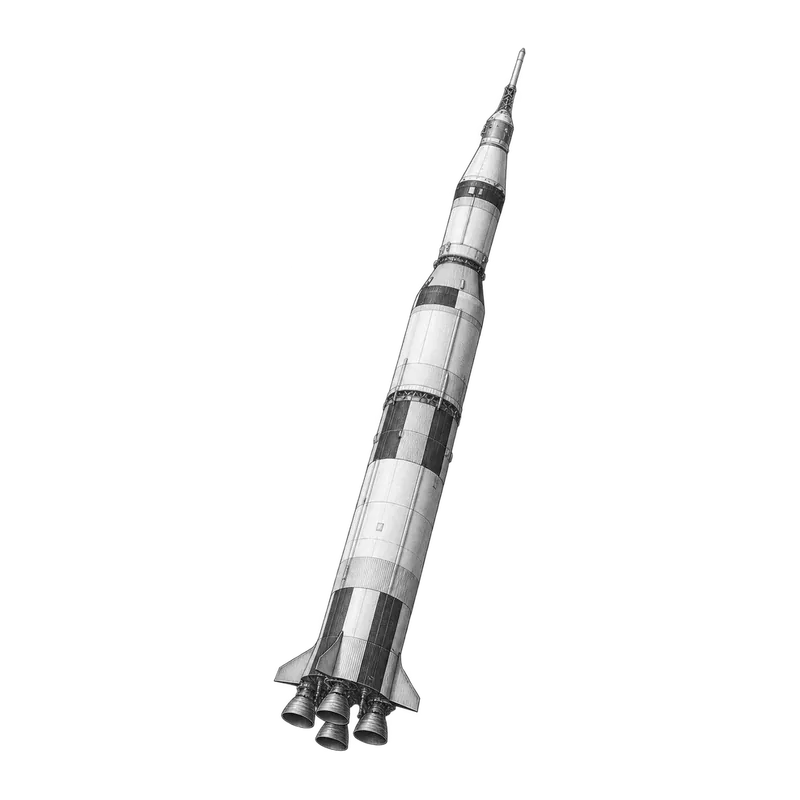
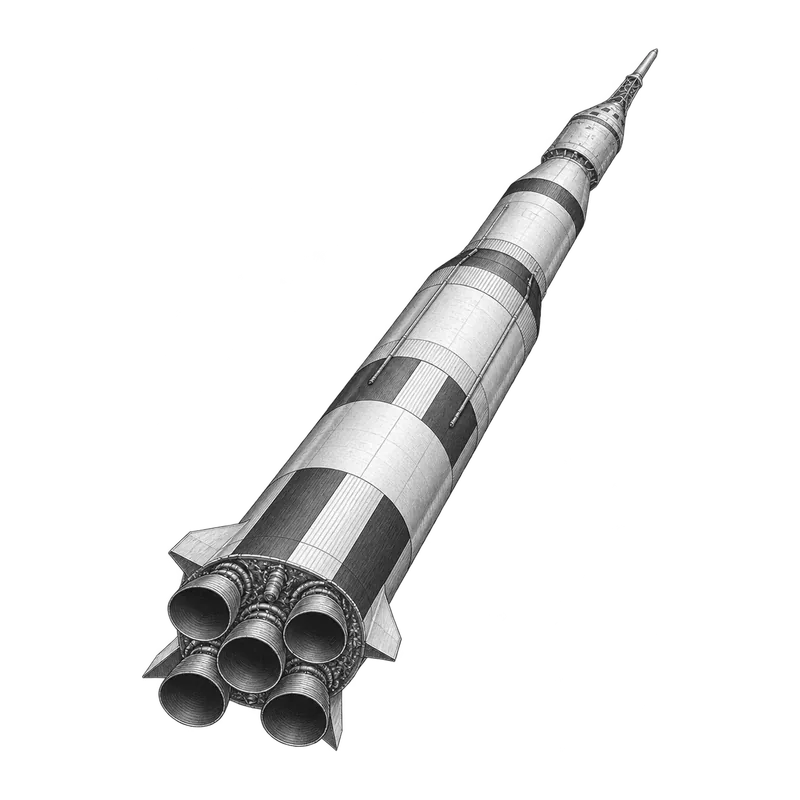
images: Saturn V cover redrawn with five F-1 nozzles; bones protected-organs figure stays withdrawn (four attempts failed the rib count)

Changed region(s): [[0.1875, 0.0625, 0.8438, 0.9375]]

diff --git a/src/content/topics/bones-and-joints/FIGURES.md b/src/content/topics/bones-and-joints/FIGURES.md
@@ -1,83 +1,93 @@
-# 插图检查 / Figure record — rework 2026-10-27
+# 插图检查 / Figure record — 2026-10-29
 
-Three independent graphite illustrations, CC BY-NC-SA 4.0. No Z-Anatomy render
-was supplied to image generation or incorporated into these images. The cover
-and living-bone drawing are unchanged. The protected-organs drawing is replaced.
+## Publication state
 
-| Figure | Source PNG SHA-256 | Published output |
+The cover and living-bone figure are unchanged. **Protected organs remains
+withdrawn.** Four built-in image_gen calls were used this session; none passed
+the combined count and floating-rib attachment check. No replacement is
+published; the two chapter uses and dependent e2e check remain withdrawn.
+
+Independent Atlas graphite illustrations, CC BY-NC-SA 4.0. No Z-Anatomy render
+or mesh was supplied to image generation. Processing only crops, pads,
+desaturates and encodes; it cannot repair anatomy.
+
+| Published figure | Source PNG SHA-256 | Published output |
 |---|---|---|
[5 lines of base64/hex data omitted]
+| Protected organs | No accepted replacement | Absent |
 
-Replacement source: `art/planned/bones-and-joints/bones-and-joints-protected-organs.png`
-(1312×1199, alpha; local preparation directory). Published WebP SHA-256:
[1 lines of base64/hex data omitted]
+## Earlier acceptance withdrawn
 
-## Correction to the previous record
+Original PNG `a7ab7c9e…` / 118,178 B WebP was incorrectly recorded as
+12 pairs; browser acceptance counted 14. Replacement PNG `71abb107…` /
+WebP `b7f6c69c…` counted 12 but drew ribs 11–12 loose beside the spine.
+Commit `6aaf098` withdrew it. The earlier
+[rib-count.svg](../../../../scripts/geo/bones-and-joints/rib-count.svg)
+belongs to that withdrawn image; its 24 dots are historical, not evidence of
+an accepted current image. Source-mesh counts do not establish raster anatomy.
 
-The previous PNG (`a7ab7c9e…`) / 118,178 B WebP was incorrectly recorded as
-12 ribs per side. Claude's browser acceptance counted 14. That old visual count
-is withdrawn. A correct source-mesh count does **not** establish an illustration's
-rib count. The replacement was counted independently on the generated image
-and again on the processed WebP.
+## Four-attempt review (this session)
 
-## New generation and count
+All four PNGs were visually inspected. Count each separate anterior shaft /
+cartilage junction from the top, then trace each floating rib from its
+vertebral joint to its free anterior tip. Posterior returns, shared cartilage,
+vertebral processes and generated numbers are not additional ribs or evidence
+by themselves. Check both sides; hidden endpoints do not establish free tips.
 
-Built-in `image_gen`, three calls of the four permitted; transparent background
-on all calls. Attempt 1 was rejected because the lower costal-margin arcs did
-not provide an acceptable twelve-rib cage. Attempt 2 generated a numbered plate,
-with ten long arcs and two short floating ribs on each side. The numbers were
-checked against the actual continuous arcs and tips rather than accepted as
-evidence by themselves. Attempt 3 removed only those numbers and short leaders.
-Its anatomy was recounted after that edit; no fourth attempt was needed.
+| Attempt | Rejection |
+|---|---|
+| 1 | Extra lower outer arcs plus two short inner branches; not twelve pairs. |
+| 2 | Twelve outer shafts plus an extra short inner pair. Printed right-side numbers are inconsistent. |
+| 3 | Twelve outer shafts can be counted, but a lower arch meets the costal margin and the lowest free tips lack unambiguous posterior continuity. |
+| 4 | Ten outer arcs per side and one clearly attached short pair with free tips. A higher posterior branch disappears beneath the costal margin; both floating pairs cannot be traced to free anterior tips. |
 
-The numbered intermediate is saved locally as
-`art/planned/bones-and-joints/bones-and-joints-protected-organs-counted.png`.
-The **final** WebP is marked separately in
-[rib-count.svg](../../../../scripts/geo/bones-and-joints/rib-count.svg).
-Each of its 24 dots is on an individually traced rib, with numbers 1–12 per
-side. The corresponding raster review copy is in the ignored anatomy cache:
-`scripts/anatomy/cache/bones-joints/previews/rework-rib-count.png`.
+Attempt 4 (1536×1024): clearly free short tips near (580,850) / (960,850).
+Higher branches originate at the next vertebra up but disappear around
+(610,760) / (925,760) beneath the foreground margin. An independent
+second-agent review also rejected attempts 3 and 4. Heart/lungs inside,
+sternum anterior and spine posterior read correctly; these do not waive the
+floating-rib requirement.
 
-| Traced level, top to bottom | Viewer-left | Viewer-right | Anterior endpoint checked |
-|---|---|---|---|
-| 1–7, traced separately | 7 | 7 | Seven individual cartilage junctions towards the sternum |
-| 8, 9, 10, traced separately | 3 | 3 | Three indirect contributions to the open costal margin |
-| 11 and 12, traced separately | 2 | 2 | Two short free tips in each lower opening |
-| Total | **12** | **12** | **24 individual ribs / 12 pairs** |
+## Local review artifacts and processing
 
-Method: start at the uppermost rib, trace its continuous shaft to its anterior
-cartilage seam, then move to the next separate shaft. After the seven direct
-connections, trace the three lower arcs into the margin. Count the two remaining
-short ribs by their separate free anterior tips. Posterior returns, the shared
-cartilage margin and vertebral processes are not additional ribs. Repeat on the
-other side and on the processed image. The final overlay was visually inspected
-with the actual WebP beneath the markers. Heart and lungs are within the cage,
-sternum anterior and spine posterior; the sternum ends above the open arch.
+Files below and `prompts.json` are staged in this worktree's gitignored
+`art/planned/bones-and-joints/`. Main checkout art at
+`/Users/gavin/work/atlas/art/planned/bones-and-joints/` is outside sandbox
+writable roots and was read only.
 
-This is an educational count and composition check, not named clinical approval
-of cartilage thickness, posterior joints, vertebral segmentation or lung fissures.
+| Local rejected file | SHA-256 |
+|---|---|
[5 lines of base64/hex data omitted]
 
-Processing (no anatomy edits by script):
-
-```sh
-pnpm tsx scripts/illustrate.ts figure art/planned/bones-and-joints/bones-and-joints-protected-organs.png bones-and-joints-protected-organs
-```
-
-Result: 1200×900, alpha, neutral graphite, q76, 122,018 B (within the figure
-budget). The final PNG and final WebP were both visually inspected.
+Attempt 4 was processed with `scripts/illustrate.ts figure` using the requested
+`bones-and-joints-protected-organs` stem, then its output moved out of
+`public/` into the local review directory. The 1200×900 alpha WebP was
+visually inspected and remains rejected. At 129,548 B / minimum q58 it also
+exceeds the 120 KiB target. No engine/pipeline changes were made for an
+unaccepted image. The staged source uses an attempt filename deliberately.
 
 ## Prompts (verbatim)
 
+Built-in `image_gen__imagegen`, `transparent_background=true` on all calls.
+Attempts 3 and 4 use the preceding candidate as an edit reference.
+
 ### Attempt 1 — rejected
 
-Use case: scientific-educational. Redraw an anatomical graphite plate of the thorax, frontal view, transparent background. Fine neutral grey pencil engraving and stippled shading, matching a nineteenth-century technical plate. One sternum in front, thoracic vertebral column behind, pale lungs and heart safely inside the cage. CRITICAL EXACT COUNT: TWELVE ribs on EACH side, twelve pairs total. Build only these twelve numbered levels mentally: 1,2,3,4,5,6,7 are true ribs each joining the sternum by its own cartilage; 8,9,10 join a shared open costal arch indirectly; 11 and 12 are TWO short floating ribs with distinct free anterior tips on EACH side. Seven + three + two = twelve per side. Broad clear spaces between every rib make all twelve individually traceable. No extra arcs, no extra free tips, no detached bone shards. Sternum terminates near rib seven above an open inverted V costal arch. Anatomically proportional cage, not an elongated cage of fourteen ribs. Organs lighter than foreground bone. No clavicles, shoulders, arms, pelvis, no labels, numerals, text, arrows, frame, shadows, or paper background.
+Use case: scientific-educational. Asset: Atlas chapter figure, isolated human thorax in fine neutral-grey graphite pencil engraving, delicate crosshatching and stippling, crisp contours, nineteenth-century scientific plate. Fully transparent background. Landscape 4:3 canvas. Draw heart and both lungs INSIDE one anatomically proportional rib cage, sternum in the FRONT, thoracic vertebrae BEHIND the organs. Near-frontal view with slight three-quarter rotation so posterior rib attachments can be read; organs very pale translucent graphite, bones darker. CRITICAL: exactly TWELVE PAIRS of ribs, 12 individual ribs per side, 24 total. Seven true ribs 1–7 each connect by their own cartilage to the sternum; three false ribs 8–10 merge into the costal margin; two shorter floating ribs 11–12 on EACH SIDE, whose POSTERIOR ENDS ARE PHYSICALLY JOINED TO THE ELEVENTH AND TWELFTH THORACIC VERTEBRAE. Floating means only their ANTERIOR tips are free. Draw each lower floating rib as one unbroken curved bony shaft emerging directly from the side of its corresponding vertebra and sweeping laterally then anteriorly to a free tip. No transparent gap at any posterior joint; no detached slivers anywhere. Expose lower thoracic spine below the pale lungs to make all FOUR posterior joints of ribs 11 and 12 unmistakable. Give each of the 12 ribs generous separation so shafts can be traced and counted, particularly the two short lower ribs attached to each side of the spine. Only ten long outer arcs per side; two shorter attached lower ribs per side. Sternum ends above open costal arch. No clavicles, scapulae, arms, pelvis, lumbar spine, extra bones or inset diagrams. No text, numerals, labels, arrows, watermark, frame, ground shadow, paper texture or background. Entire thorax fits with transparent margins. Original illustration, no existing anatomy mesh as input.
 
-### Attempt 2 — numbered count plate
+### Attempt 2 — rejected
 
-Use case: scientific-educational. NEW anatomy textbook graphite engraving of a rib cage enclosing pale heart and lungs, transparent background, frontal view, NO shoulders/clavicles/arms/pelvis. Make exactly TWELVE pairs of ribs, 24 ribs total, not fourteen pairs. The previously generated cage had extra lower ribs: avoid that. Clearly enumerate every actual rib with a tiny pencilled number 1 through 12 beside the lateral shaft on BOTH sides, one number per rib, exactly twelve numbers on each side. Top down: seven true ribs (1–7) join the front sternum individually, three false ribs (8–10) converge into one continuous open inverted-V costal margin, TWO floating ribs (11–12) are short separate branches from the posterior thoracic spine with free tips, shown below rib10 within the lower opening. There must be ONLY TEN long outer arcs on each side, with the TWO shorter floating ribs inside the lower opening. Do not put extra arcs below the tenth outer rib. Generous spacing, clearly separate ribs. Sternum is foreground, spinal column is behind, organs inside. Fine neutral-grey graphite linework, hatching/stipple, no colour, no background, no decorative elements. Twelve not fourteen.
+Use case scientific-educational. Draw a NEW anatomical graphite plate, fully transparent background, centered isolated adult thorax with pale heart and lungs inside a darker rib cage. Sternum at front, thoracic spine behind. Fine clean graphite pencil contours and sparse cross-hatching/stipple, greys only, no paper or shadow. Near frontal view. This is a COUNTED REVIEW DRAFT: write a small number 1 through 12 beside the lateral shaft of each rib on BOTH sides, one number per shaft. The finished anatomy must have exactly TWELVE rib pairs, exactly 24 ribs. Build the cage with ONLY TEN long outer arcs on the left and ONLY TEN long outer arcs on the right: numbers 1,2,3,4,5,6,7 to individual sternum cartilage; 8,9,10 to shared costal arch. After the tenth long outer arc STOP drawing long arcs. Below rib10, draw ONLY TWO shorter ribs on each side, numbers11 and12. These are the floating ribs: EACH is visibly CONNECTED AT ITS MEDIAL POSTERIOR END directly to the side of the corresponding lower thoracic vertebra. Their lateral/anterior tips are free, but their origins MUST touch the vertebrae. All FOUR lower short ribs grow out of the spine as connected branches with no gaps. Do not add any additional free tips at the outer edges of the cage: total per side TEN long arcs plus TWO short attached lower branches = TWELVE. Leave clear generous gaps between ribs so they are individually countable. Thoracic spine exposed in lower opening, no lumbar spine or extra branches. Heart and lungs pale enough to see cage, sternum foreground. Anatomically plausible proportions. No clavicles, scapulae, pelvis, arms, loose bone fragments, extra insets, leaders, arrows, headings or text except the small rib numbers 1–12. Each numeral is next to exactly one real rib. Draw the entire thorax within clear transparent margins; landscape canvas.
 
-### Attempt 3 — accepted after recount
+### Attempt 3 — rejected
 
-Precise cleanup of this exact graphite anatomy plate. Preserve EVERY anatomical line and all twelve ribs on EACH side exactly, all organ shapes, sternum, spine, graphite shading, scale and transparent background. Remove ONLY the tiny pencilled numerals 1–12 and their short leader strokes on both sides. Leave transparent background where the numbers/strokes were. Do NOT redraw, add, remove, bend, extend or change any ribs. There are ten long rib arcs on each side and two short floating rib tips inside the lower opening on each side; preserve exactly this geometry. No text or numbers in the final image.
+Precise-object-edit of this exact graphite thorax plate. Preserve the ten long outer rib arcs on each side (seven individually meeting sternum plus three joining costal margin), preserve sternum, heart and lungs, their proportions and graphite medium. Correct ONLY the lower two rib pairs and remove numbers/background. There must be TWELVE ribs per side TOTAL. Current plate has an erroneous extra short inner pair beside the low spine: REMOVE that extra pair of small downward-curving inner tusks (the left ends near x560 y910 and the right near x965 y910 on a 1536x1024 image). Keep ONLY the outer numbered11 and12 on each side as floating ribs. Ensure each of those four ribs has a continuous full shaft that traces all the way FROM its BACK joint at one of the last TWO thoracic vertebrae, curving outward to the side and around to its free FRONT tip. Show both posterior attachments per side clearly and without a gap. No isolated pieces, no extra short inner branches, no extra rib after rib12, no lumbar spine. Each side must contain only10 long arcs and2 shorter floating arcs, ALL twelve attached at their posterior ends to the thoracic spine. Remove every tiny numeral/letter from all ribs and leave clean pencil shading underneath. Remove the grey haze/gradient completely: genuinely fully transparent background between and around the specimen, no shadow, no paper. The full specimen fits within generous margins. No labels, arrows or added marks. Original scientific pencil engraving, neutral greys only, all anatomical lines sharply readable.
+
+### Attempt 4 — rejected
+
+Edit this anatomical plate with ONE precise correction: redraw ONLY ribs 11 and 12 on each side. Keep the TOP TEN long rib arcs on each side exactly unchanged, keep sternum, pale lungs and heart, spine and graphite shading. At the bottom, REMOVE the two lowermost outer sweeping rib arcs on each side: the ones with free tips at approximately (450,890) and (465,950) left, and (1080,890) and (1075,950) right in this 1536x1024 image. Their whole outer return arcs must disappear; the outer silhouette stops at rib10 and the open costal margin, above those tips. INSTEAD draw the two floating ribs per side as SIMPLE SHORT SINGLE CONNECTED BRANCHES from the bottom TWO thoracic vertebrae in the exposed central opening. Left branches go from the LEFT side of the last two vertebrae outward and slightly down to two separated free tips inside the opening; right branches mirror them. Each is one continuous narrow curved bone growing straight out of its vertebral joint, NO gap at spine. They are short enough to end well INSIDE the lower opening, not at the outer border. Do not draw any second arc or long loop for these four short branches. Exactly TEN long arcs plus TWO short vertebra-attached branches per side =12. No other ribs, no loose pieces, no lines below the twelfth pair, no lumbar spine. Maintain same heart/lung/cage composition and fine neutral graphite pencil engraving. Transparent background with alpha, no paper, no shadow, no grey backdrop. No numbers, labels, arrows, or text. Make the four short branches and their spine connections clearly traceable.

diff --git a/src/content/topics/saturn-v/ILLUSTRATIONS.md b/src/content/topics/saturn-v/ILLUSTRATIONS.md
@@ -1,13 +1,15 @@
 # 图像制作与复用记录 · Saturn V
 
-2026-10-27。封面为 image_gen.imagegen 原创新图；两张章图复用既有已审 Atlas 原创图。全部属于 Atlas CC BY-NC-SA 4.0 内容族，没有引入第三方素材。NASA PDF 只作结构参考，不作部署图。
+2026-10-29 更新封面。封面为 image_gen.imagegen 原创新图；两张章图仍复用既有已审 Atlas 原创图。全部属于 Atlas CC BY-NC-SA 4.0 内容族，没有引入第三方素材。NASA PDF 只作结构参考，不作部署图。
 
 ## saturn-v.png
 
[1 lines of base64/hex data omitted]
-- 生成工具：`image_gen.imagegen`；1 次；Routine illustration normalization: neutral equal-RGB graphite, proportional fit inside 870px box with transparent padding to exactly 1024²; deployed assets via scripts/illustrate.ts.
-- 已看过最终 PNG：Three main stage outlines, narrow instrument unit and spacecraft adapter, Apollo spacecraft and skeletal escape tower. Five-engine cluster partly occluded in oblique view; no duplicate lander, boosters or flames.
-- 图像审计：{"rgba": true, "alphaRange": [0, 255], "nonNeutralPixels": 0}；无文字、旗帜、标识或背景。
[1 lines of base64/hex data omitted]
+- 生成工具：`image_gen.imagegen`（built-in）；2 次。第 1 次仅四个喷口可数清，弃用；第 2 次采用更低仰视，五台 F-1 全部可见。
+- 已看过最终 PNG 和两张部署 WebP：Exactly five separate nozzle mouths, four outer around one centre (two rear, centre, two front), connected beneath S-IC; three main stages, instrument ring, spacecraft adapter, Apollo service/command modules and skeletal escape tower. Complete slender stack with perspective foreshortening; no extra lander, boosters, flames, text or flags.
+- 原始生成 PNG 为 RGBA，alpha [0,255]，四边最大 alpha=1（不可见生成噪点）；保留原始 RGB 和 alpha。`scripts/illustrate.ts process` 统一去色、裁边和补透明边距；部署图外缘全透明，解码可见像素 RGB 最大通道差为 1（WebP 有损压缩），视觉为中性石墨灰。
[1 lines of base64/hex data omitted]
+- Sandbox 暂存：源图、两次 prompt 与新 manifest 在**本工作树** `art/planned/saturn-v/`（gitignored）。主 checkout `/Users/gavin/work/atlas/art/planned/saturn-v/` 不在可写范围内，未修改。
 
 ## saturn-v-apollo-cutaway.png
 
@@ -26,8 +28,9 @@
 ## 完整封面 prompt
 
 ```text
-Use case scientific-educational. Atlas square 1024x1024 cover: ONE complete historically recognisable Apollo 11 Saturn V rocket launch stack, assembled, isolated in transparent space as an engineering specimen. Show full rocket straight and upright, slightly tilted diagonal bottom-left to upper-right if necessary for square composition; correct very slender overall proportions total height about 111m versus main cylinder diameter about10m, do NOT fatten it. Exactly THREE main rocket stages: long broad S-IC bottom, shorter equally broad S-II middle, taper to narrower S-IVB third stage above. Narrow instrument ring above third stage, tapering spacecraft adapter above it, cylindrical Apollo service module, squat conical command module, slender skeletal launch escape tower at very top. Four small base fins, five F-1 engines clustered at bottom one centre four around; near side bells visible with far bells partly occluded, no requirement to display all nozzles from this view. No side boosters, no airplane wings, no external shuttle tank, no deployed lunar lander outside stack, no flames or smoke, no launch gantry or ground. Retain subtle authentic monochrome panel and interstage band structure but absolutely NO letters numerals text logos insignia national flags or flag motifs. Fine delicate graphite pencil nineteenth-century scientific engineering plate, confident contours, cross-hatching, stippling. Strict neutral greyscale equal RGB, fully transparent PNG alpha, no background paper texture frame arrows ground shadow. Whole complete stack including tower and engine tips inside generous margins, about85percent canvas height, nothing clipped. Intended art/planned/saturn-v/saturn-v.png.
-Generate exactly 1024x1024 with transparent background.
+Use case: scientific-educational. Redraw the reference Saturn V graphite cover, correcting the camera viewpoint and engine count. The last attempt still looked like four engines. MANDATORY: use a substantially lower underside three-quarter camera, looking upward along the rocket at an angle of about 35 degrees to its base plane. We need to see the underside face of the S-IC and EXACTLY FIVE distinct dark circular/elliptical engine nozzle apertures: four outer F-1 engines at the corners of a square and a FIFTH central F-1 engine in the square's centre. The rear two openings must be visibly separated above the centre opening; the front two openings must be visibly separated below the centre opening. Thus the countable nozzle openings form FIVE dots of a die, a quincunx: two back, one centre, two front. All five engines fixed to one base, no detached nozzles, no sixth nozzle. Do not use a near side-on camera that hides the rear two or centre nozzle. Enlarge the engine separation visually by the lower camera, not by widening the rocket or moving engines off their mounts.
+ONE full assembled Saturn V Apollo launch stack, very slender proportions height about 111m to 10m main barrel. Three main stages only: long S-IC bottom, shorter equal-width S-II middle, narrower S-IVB upper; narrow instrument unit ring; tapered spacecraft adapter; cylindrical service module; squat conical command module; skeletal launch escape tower. Four small base fins with 2–3 visible; no broad wings. Arrange full complete rocket diagonally bottom-left to top-right in square canvas with generous clear margins. Reference image supplies the graphite rendering style and rocket morphology; change the camera angle enough to fulfill the five opening requirement.
+Fine nineteenth-century scientific engineering graphite plate: clean delicate contours, crosshatching and stippling, only neutral grey graphite. Genuinely transparent PNG background. No text, letters, numerals, flags, logos, arrows, frame, paper texture, background, ground shadow, flames, smoke, gantry, external booster, exposed lunar lander.
 ```
 
 ## 部署管线

diff --git a/src/content/topics/bones-and-joints/FIXES.md b/src/content/topics/bones-and-joints/FIXES.md
@@ -4,16 +4,16 @@ Browser acceptance found four items that need rework rather than a small fix. Sc
 
 ## Rework completed for main-session browser re-verification
 
-F1–F5 are implemented below. Non-browser checks are recorded in docs/57 §9.5. Browser gates were skipped as instructed; implementation completion is not a new browser acceptance claim.
+F2–F5 were implemented in the earlier pass below. F1 remains reopened and withdrawn; see the final section. Earlier non-browser checks are recorded in docs/57 §9.5. Browser gates were skipped as instructed; implementation completion is not a new browser acceptance claim.
 
-### F1 · DONE · Protected-organs figure has 14 rib pairs, not 12
+### F1 · REOPENED · Protected-organs figure count and floating-rib attachment
 
 `public/illustrations/figures/bones-and-joints-protected-organs.webp` (chapter 02, both locales). Counting the costochondral seams and free tips on each side from the top: 7 ribs reach the sternum, 4 join the costal margin and 3 end in free tips, so 14 ribs per side. FIGURES.md records "12 per side", which is wrong. The caption on 01-02 and the chapter text say twelve pairs.
 
 Expected: exactly 12 per side (7 true ribs to the sternum, ribs 8–10 to the costal margin, 2 floating ribs 11–12 with free tips), heart and lungs inside, sternum in front, thoracic spine behind. Count the result seam by seam and mark it up before accepting. Do not rely on the prompt. Update FIGURES.md with the real count and method.
 
 
-**Done:** Replaced the figure using three built-in image-generation calls. Counted the final PNG and processed WebP as 7 true + 3 false + 2 floating ribs on each side; saved a 24-marker review overlay in `scripts/geo/bones-and-joints/rib-count.svg`. Reprocessed with `scripts/illustrate.ts figure`; corrected the false old count, prompts, hashes and inspection method in FIGURES.md.
+**Earlier pass, acceptance withdrawn:** Replaced the figure using three built-in image-generation calls and counted twelve ribs per side, but missed detached posterior ends on ribs 11–12. The 24-marker overlay in `scripts/geo/bones-and-joints/rib-count.svg` belongs to that withdrawn image. It does not establish correct posterior attachment. See the reopened item and current review in FIGURES.md.
 
 ### F2 · DONE · Part details are reviewer notes, not student text
 
@@ -63,3 +63,13 @@ Original reproduction: bones 04-02 and 05-02/03, and muscles-arms ch04 b1 (`ulna
 ## F1 reopened (2026-10-27, main session)
 
 The redrawn protected-organs figure counts 12 ribs per side, but ribs 11–12 are drawn as loose pieces beside the spine, not joined to the vertebrae. Floating ribs are free at the front only; at the back they join the thoracic vertebrae. The figure is withdrawn from chapter 02 (both locales) and its webp removed until it is redrawn with ribs 11–12 attached to the spine. Redraw is queued for Codex.
+
+### Redraw outcome (2026-10-29) — still open after four attempts
+
+Used all four permitted built-in `image_gen` calls in graphite-plate style. Rejected attempts 1–2 for extra ribs; rejected attempt 3 for the lower costal-margin/attachment geometry. Attempt 4 has ten long outer arcs per side and one clearly spine-attached pair with free anterior tips; the higher posterior branch disappears under the costal margin, so both floating pairs cannot be traced to free front tips. Independent second-agent inspection agrees that neither attempt 3 nor 4 passes. Heart/lungs, sternum and posterior spine alone are insufficient for acceptance.
+
+The last candidate was processed with `scripts/illustrate.ts figure`, inspected, and moved out of `public/` into the local review directory. Its 129,548 B / 1200×900 WebP also exceeds the existing 120 KiB target at q58. No accepted image exists, so the two `<Figure>` uses and dependent e2e image assertion remain withdrawn. No fifth generation call or anatomy edits by script were made.
+
+All four source PNGs, exact prompts and a processed review WebP are staged under this worktree's gitignored `art/planned/bones-and-joints/`; the main-checkout art directory is outside writable roots and was not overwritten. Counts, failure locations, hashes and verbatim prompts are in FIGURES.md. A further redraw remains necessary before restoring the chapter and e2e check.
+
+Current non-browser gates: `pnpm check` (0 errors/warnings), `pnpm validate` (85 topics, 0 errors/warnings), `pnpm test` (219 files; 5,448 tests passed) and `pnpm build` (173 pages) pass. `pnpm shoot` and `pnpm e2e` were skipped as requested; no browser/desktop was opened. No engine, package/lockfile or git writes.

diff --git a/src/content/topics/bones-and-joints/data/SOURCES.md b/src/content/topics/bones-and-joints/data/SOURCES.md
@@ -17,7 +17,7 @@ Preparation IDs S01–S09 map numerically to runtime S1–S9; S10–S33 retain t
 | `parts.json`, `public/models/bones-and-joints.glb`, anatomy region/rig/site packet and screenshots | Z-Anatomy selected from locally cached FBX meshes; BodyParts3D upstream. Same adult source frame as arms. Skeleton grouped into selectable regions; real hand surfaces duplicated as close-up specimens. Exact node names, source hashes, bounds and triangle counts belong to the anatomy packet report. | CC BY-SA 4.0; retain Z-Anatomy and BodyParts3D attribution [S25,S26,S30]. |
 | Original primitive teaching specimens and geometry glue/constants in the geometry packet | Generic bone section, capsule/ligament, qualitative growth/remodelling/repair and ideal beam are original teaching designs, not traced textbook images. Layout positions, pose angles and lever constants are DESIGN, not population measurements [S34]. | Offered under CC BY-SA 4.0 with the geometry packet. |
 | `chapters/*.mdx`, `topic.yaml`, `glossary.json`, this source documentation | Independent bilingual explanations and OpenStax-derived teaching paraphrases, supported by the numbered source list. Terminology references are used for names, without copying dictionary definitions. | CC BY-NC-SA 4.0. |
-| Cover and one figure webp family (the protected-organs figure is withdrawn until redrawn; see FIXES.md) | Independently generated graphite illustrations, processed by `scripts/illustrate.ts`; protected-organs image redrawn to show heart/lungs enclosed by ribs, sternum and posterior spine. | CC BY-NC-SA 4.0; prompt, passes and visual checks in `FIGURES.md`. |
+| Cover and one published figure WebP family; protected-organs remains withdrawn | Independently generated graphite illustrations, processed by `scripts/illustrate.ts`. Four new protected-organs attempts on 2026-10-29 failed the combined twelve-pair / posterior-attachment / free-anterior-tip check; the last processed candidate is retained only in the worktree's local art review directory, not published. No Z-Anatomy image or mesh was a generation input. | CC BY-NC-SA 4.0; exact prompts, hashes, count method and rejection details in `FIGURES.md`; reopening status in `FIXES.md`. |
 
 Required anatomy attribution: “BodyParts3D - The Database Center for Life Science - CC-BY-SA 2.1 Japan”; “Z-Anatomy - The open source atlas of anatomy - CC-BY-SA 4.0”. BodyParts3D’s present archive page gives CC BY 4.0; the Z-Anatomy derivative retains its stated CC BY-SA 4.0. The content licence is distinct from application code [S25,S26].
 

diff --git a/src/content/topics/saturn-v/FIXES.md b/src/content/topics/saturn-v/FIXES.md
@@ -1,8 +1,17 @@
-# 土星五号 · 浏览器验收后需 Codex 重做的项目
+# 土星五号 · 插图修复记录
 
 2026-10-27，browser acceptance（Claude）。除下列一项外，其余问题已在验收中直接修复（见 docs/61 §9.5）。
 
-## 1. 封面图 `art/planned/saturn-v/saturn-v.png`：F-1 发动机只画出四台
+## 1. 封面图：五台 F-1 已重绘（2026-10-29）
+
+- 已用 `image_gen.imagegen` 重绘两次；第 1 次仍只清楚显示四个喷口，弃用；第 2 次改为更低的仰视，最终 PNG 和 800 / 1600 px WebP 均已打开检查：外围后排两台、中央一台、外围前排两台，五个独立喷口均可数清，均连接在同一个 S-IC 底部。
+- 保留三级主级、仪器舱环、渐缩适配器、Apollo 服务舱/指令舱和骨架逃逸塔；细长整体在低仰视下有透视缩短。无文字、旗帜、背景、烟火或宽飞机翼。
[1 lines of base64/hex data omitted]
+- 已运行 `pnpm tsx scripts/illustrate.ts process art/planned/saturn-v/saturn-v.png saturn-v`：800² / 44,338 B、1600² / 124,064 B，均 q82，透明外缘；仅更新 `illustrations.json` 的 `saturn-v` 蒙版。prompt、哈希与验图记录见 `ILLUSTRATIONS.md`。
+- 浏览器验收由主 session 运行：本 sandbox 按用户要求跳过 `pnpm shoot` 和 `pnpm e2e`。
+- 本轮非浏览器门槛全部通过：`pnpm check`、`pnpm validate`（85 主题，0 error / warning）、`pnpm test`（219 文件，5,448 测试）和 `pnpm build`（173 页）；无引擎或 package/lockfile 改动，无 git 写操作。
+
+### 原验收问题（2026-10-27，已由上述替换解决）
 
 - 截图/源图：`art/planned/saturn-v/saturn-v.png`（1024²，部署为 `public/illustrations/saturn-v.webp`、`saturn-v@2x.webp`）。
 - 现状：S-IC 底部只看得到四个喷管呈十字形，中央一台没有出现，读起来像“四台发动机”。这与全主题的核心事实（S-IC 五台 F-1，一中央四外围，01 章、封面 prompt、spec §3 都是 1+4）相冲突。原 prompt 里“不要求显示全部喷管”的豁免不成立：斜仰视下中央喷管本应位于四个外围喷管之间可见。
